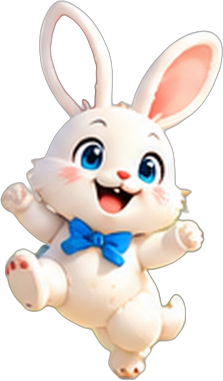
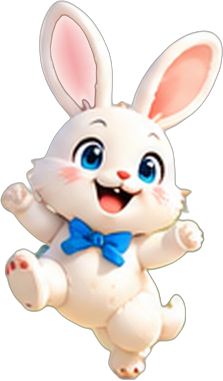
ミミの片耳が透明だったのを修正（物語・ARパレード共通の characters2/mimi.png）
Claude-Session: https://claude.ai/code/session_01C1tSFb1QfFwxng9i8p5Jmg

Changed region(s): [[0.2152, 0.0289, 0.4305, 0.2887]]

diff --git a/story/index.html b/story/index.html
@@ -14,7 +14,7 @@
 <link rel="stylesheet" href="https://fonts.googleapis.com/css2?family=M+PLUS+Rounded+1c:wght@500;700;800&display=swap">
 <script>
 /* 更新の確認：古い版が残っていたら新しい版を読み込み直す（物語の途中では切りかえない） */
-var BUILD = '20261019035802';
+var BUILD = '20261019233450';
 (function(){
   function go(v){
     try{ if(sessionStorage.getItem('storyReloadedTo') === v) return; sessionStorage.setItem('storyReloadedTo', v); }catch(e){}

diff --git a/index.html b/index.html
@@ -7,7 +7,7 @@
 <meta http-equiv="Expires" content="0">
 <script>
 /* 更新の確認：ホーム画面から開いたときに古いページが残っていたら、新しい版を読み込み直す */
-var BUILD = '20261019035802';
+var BUILD = '20261019233450';
 (function(){
   var pending = '';
   function busy(){ try{ return typeof running !== 'undefined' && running; }catch(e){ return false; } }
